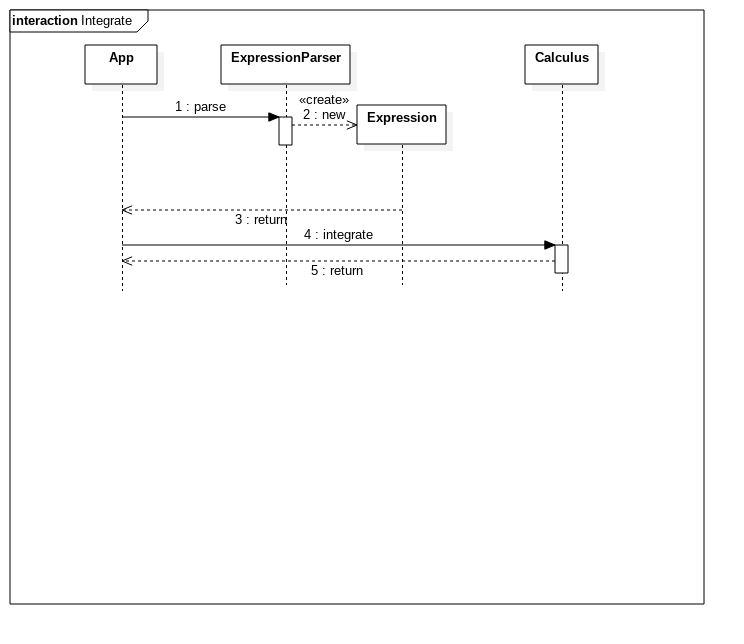
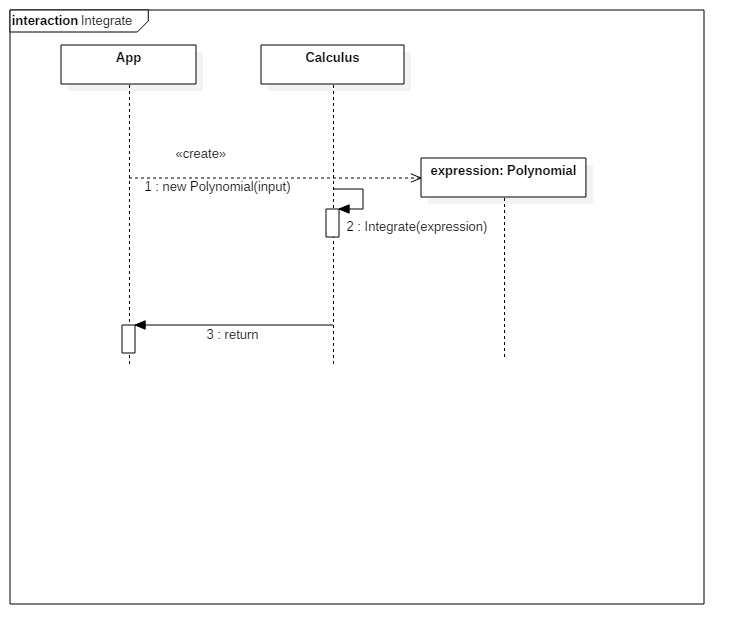
Updated most of the documents

diff --git a/docs/csc380project.tex b/docs/csc380project.tex
@@ -20,33 +20,24 @@
 
 \begin{document}
 
-\title{\textbf{Expression Calculator and Equation Solver} \\
+\title{\textbf{Expression Calculator} \\
     \url{https://github.com/stepheniskander/csc380project}}
 \author{Nicholas Esposito \\ nesposi3@oswego.edu \and Stephen Iskander \\ siskande@oswego.edu}
 
 \maketitle
 
 \section{Project Description}
-Our project is an expression calculator and equation solver.
+Our project is an expression calculator.
 The user can input mathematical expressions (e.g. \code{4*2+1}) to be evaluated to a numerical answer.
 Expressions can also contain matrices or calculus operations such as integrals and derivatives.
-If an expression contains one or more variables it will be simplified in terms of the variables (e.g. \code{(1*2)*x+(4-7) -> 2x-3}).
-If the user inputs an equation containing a single variable, the program will solve for that variable.
-The user can also input a system of equations that the program will solve if possible.
+
 
 \par The program uses JavaFX for its user interface.
 The main window is a simple command-prompt-like interface that the user types expressions or equations into.
 Expressions are typed into a text field at the bottom of the window, and the expression as well as its evaluated answer are displayed in a text area above the input field.
 The user can see their history in the output area so they can easily copy and paste previous expressions.
-An additional window allows the user to graphically build matrices that will be inserted into the input field.
-Systems of equations are handled on a separate tab to simplify inputting multiple equations.
 
-\subsection{Stretch Goals}
-The user can also use the program to graph functions.
-Graphs are located on a separate tab.
-The user inputs functions into an expandable list of functions and can choose what functions are visible on the graph.
-A graph of all the visible functions is displayed next to the list of functions.
-The window size and scale of the graph can be set manually or the program can attempt to set appropriate values.
+
 
 \newpage
 
@@ -59,16 +50,11 @@ The window size and scale of the graph can be set manually or the program can at
 REQ1  & 10 & Parsing user input into an expression. \\ \hline
 REQ2  & 10 & Provide an interface for user to input expressions and see result.\\ \hline
 REQ3  & 10 & Evaluate expression parse tree into numerical answer. \\ \hline
-REQ4  & 9  & Evaluate an expression containing variables in terms of variables. \\ \hline
-REQ5  & 8  & Solve an equation with a single variable. \\ \hline
-REQ6  & 8  & Evaluate calculus operations numerically. \\ \hline
-REQ7  & 7  & Evaluate calculus operations symbolically. \\ \hline 
-REQ8  & 7  & Parse a matrix entered in text format ([[x y z] [a b c]]) \\ \hline
-REQ9  & 7  & Perform matrix multiplication symbolically (i.e. each element is an expression). \\ \hline
-REQ10 & 6  & Perform LU factorization on a matrix in order to solve a system of equations. \\ \hline
-REQ11 & 5  & Provide a UI to simplify input of a system of equations. \\ \hline
-REQ12 & 4  & Provide a graphical interface for building matrices. \\ \hline
-REQ13 & 3  & Graph functions. \\ \hline
+REQ4  & 8  & Evaluate calculus operations numerically. \\ \hline
+REQ5  & 7  & Evaluate calculus operations symbolically. \\ \hline 
+REQ6  & 7  & Parse a matrix entered in text format ([[x y z] [a b c]]) \\ \hline
+REQ7 & 7 & Calculate matrix multiplication of two matrices \\ \hline
+
 \end{tabular}
 \end{center}
 
@@ -81,15 +67,9 @@ REQ13 & 3  & Graph functions. \\ \hline
 \hline
 \multicolumn{1}{|c|}{\textbf{Identifier}} & \multicolumn{1}{c|}{\textbf{Size}} & \multicolumn{1}{c|}{\textbf{Description}} \\ \hline
 ST-1 & 3 pts & As a user, I can evaluate an expression by typing in the input field. \\ \hline
-ST-2 & 6 pts & As a user, I can get a solution for an equation with a single variable. \\ \hline
-ST-3 & 4 pts & As a user, I can evaluate an expression containing calculus operations numerically. \\ \hline
-ST-4 & 4 pts & As a user, I can input a matrix in a text format. \\ \hline
-ST-5 & 5 pts & As a user, I can perform matrix multiplication. \\ \hline
-ST-6 & 6 pts & As a user, I can perform matrix multiplication in terms of variable matrix elements. \\ \hline
-ST-7 & 4 pts & As a user, I can use a graphical interface to simplify creating a matrix. \\ \hline
-ST-8 & 7 pts & As a user, I can solve a system of equations. \\ \hline
-ST-9 & 4 pts & As a user, I can use a graphical UI to simplify entering a system of equations. \\ \hline
-ST-10 & 9 pts & As a user, I can graph a function. \\ \hline
+ST-2 & 4 pts & As a user, I can evaluate an expression containing calculus operations numerically. \\ \hline
+ST-3 & 4 pts & As a user, I can input a matrix in a text format. \\ \hline
+ST-4 & 5 pts & As a user, I can perform matrix multiplication. \\ \hline
 \end{tabular}    
 \end{center}
 
@@ -130,53 +110,13 @@ $\leftarrow$  & 1.           & Expression throws ArithmeticException
 \end{center}
 
 
-\newpage
-\begin{center}
-\begin{tabular}{p{1.5in}p{5in}}
-\hline
-\textbf{Use Case UC-2}     & \textbf{SolveEquation} \\ \hline
-Related Requirements: & REQ4, REQ5, REQ3 \\
-Initiating Actor:     & User \\
-Participating Actors: & GUI, ExpressionParser, Expression, Equation \\
-Actor's Goal:          & To solve an equation of a single variable. \\
-Preconditions:         & \begin{itemize}[nosep]
-                         \item GUI is visible
-                         \item ExpressionParser is initialized
-                         \end{itemize} \\
-Postconditions:        & \begin{itemize}[nosep]
-                         \item Program is ready to solve another equation.
-                         \end{itemize} \\ \hline
-\end{tabular}
-
-\begin{tabular}{p{.25in}p{.25in}p{5.8in}}
-\multicolumn{3}{l}{Flow of Events for Main Success Scenario:} \\
-$\rightarrow$ & 1. & The User types an equation into the input field and presses enter. \\
-              & 2. & \code{include::ParseExpression} \\ 
-$\leftarrow$  & 3. & Each expression is simplified \\
-$\leftarrow$  & 4. &Equation solve method is applied, and is evaluated to a number.  \\
-$\leftarrow$  & 5. & GUI displays answer to User \\
-\end{tabular}
-
-\begin{tabular}{p{.25in}p{.25in}p{5.8in}}
-\multicolumn{3}{l}{Flow of Events for Extensions:} \\
-\multicolumn{2}{c}{\textbf{3a.}} & User entered an equation that cannot be solved \\
-$\leftarrow$  & 1.           & Equation throws ArithmeticException \\
-
-\multicolumn{2}{c}{\textbf{3b.}} & User entered an equation with more than one variable \\
-$\leftarrow$  & 1.           & Equation solve method prints a warning string, aborts \\
-
-
-
-
-\end{tabular}
-\end{center}
 
 \newpage
 
 \begin{center}
 \begin{tabular}{p{1.5in}p{5in}}
 \hline
-\textbf{Use Case UC-3}     & \textbf{ParseExpression} \\ \hline
+\textbf{Use Case UC-2}     & \textbf{ParseExpression} \\ \hline
 Related Requirements: & REQ1 \\
 Initiating Actor:     & GUI \\
 Participating Actors: & ExpressionParser, Expression \\
@@ -207,52 +147,19 @@ $\leftarrow$  & 1.           & ExpressionParser throws NoSuchElementException\\
 \end{tabular}
 \end{center}
 
-\newpage
-\begin{center}
-\begin{tabular}{p{1.5in}p{5in}}
-\hline
-\textbf{Use Case UC-4}     & \textbf{ParseEquation} \\ \hline
-Related Requirements: & REQ5 \\
-Initiating Actor:     & GUI \\
-Participating Actors: & ExpressionParser, Expression,Equation \\
-Actor's Goal:          & To parse the incoming string into an equation. \\
-Preconditions:         & \begin{itemize}[nosep]
-		      \item  ExpressionParser is initialized
-                         \end{itemize} \\
-Postconditions:        & \begin{itemize}[nosep]
-                         \item An Equation object is created and ready to be evaluated.
-                         \end{itemize} \\ \hline
-\end{tabular}
-
-\begin{tabular}{p{.25in}p{.25in}p{5.8in}}
-\multicolumn{3}{l}{Flow of Events for Main Success Scenario:} \\
-$\leftarrow$  & 1. & Both sides of the equation are evaluated into Expression objects\\
-$\leftarrow$  & 2. & An Equation object is created using the two Expressions\\
-\end{tabular}
-
-\begin{tabular}{p{.25in}p{.25in}p{5.8in}}
-\multicolumn{3}{l}{Flow of Events for Extensions:} \\
-\multicolumn{2}{c}{\textbf{2a.}} & User entered an equation with invalid characters \\
-$\leftarrow$  & 1.           & ExpressionParser throws NoSuchElementException\\
-
-
-\end{tabular}
-\end{center}
-
-
 
 
 \newpage
 \begin{center}
 \begin{tabular}{p{1.5in}p{5in}}
 \hline
-\textbf{Use Case UC-5}     & \textbf{Integrate} \\ \hline
-Related Requirements: & REQ6, REQ7 \\
+\textbf{Use Case UC-3}     & \textbf{Integrate} \\ \hline
+Related Requirements: & REQ4, REQ5 \\
 Initiating Actor:     & User \\
-Participating Actors: & GUI, FunctionParser, Function \\
+Participating Actors: & GUI, Polynomial \\
 Actor's Goal:          & To integrate an expression symbolically or definitively. \\
 Preconditions:         & \begin{itemize}[nosep]
-		      \item  FunctionParser is initialized
+		      \item  Polynomial is initialized
                          \end{itemize} \\
 Postconditions:        & \begin{itemize}[nosep]
                          \item An indefinite integral is calculated, or a definite integral if given range parameters.
@@ -262,7 +169,7 @@ Postconditions:        & \begin{itemize}[nosep]
 \begin{tabular}{p{.25in}p{.25in}p{5.8in}}
 \multicolumn{3}{l}{Flow of Events for Main Success Scenario:} \\
 $\rightarrow$ & 1. & User inputs a fucntion to integrate.\\
-$\leftarrow$  & 2. & A Function object is parsed from User input.\\
+$\leftarrow$  & 2. & A Polynomial object is parsed from User input.\\
 $\leftarrow$  & 3. & An indefinite integral is calculated from the function.\\
 $\leftarrow$  & 4. & If given range parameters, the application displays a numerical answer. Otherwise, it returns an indefinite integral function. 
 \end{tabular}
@@ -270,7 +177,7 @@ $\leftarrow$  & 4. & If given range parameters, the application displays a numer
 \begin{tabular}{p{.25in}p{.25in}p{5.8in}}
 \multicolumn{3}{l}{Flow of Events for Extensions:} \\
 \multicolumn{2}{c}{\textbf{2a.}} & User entered an invalid function \\
-$\leftarrow$  & 1.           & FunctionParser throws FunctionParseException.\\
+$\leftarrow$  & 1.           & Polynomial throws Exception.\\
 \end{tabular}
 \end{center}
 
@@ -281,13 +188,13 @@ $\leftarrow$  & 1.           & FunctionParser throws FunctionParseException.\\
 \begin{center}
 \begin{tabular}{p{1.5in}p{5in}}
 \hline
-\textbf{Use Case UC-6}     & \textbf{Derive} \\ \hline
-Related Requirements: & REQ6, REQ7 \\
+\textbf{Use Case UC-4}     & \textbf{Derive} \\ \hline
+Related Requirements: & REQ4, REQ5 \\
 Initiating Actor:     & User \\
-Participating Actors: & GUI, FunctionParser, Function \\
+Participating Actors: & GUI, Polynomial \\
 Actor's Goal:          & To derive the expression symbollically or at a point. \\
 Preconditions:         & \begin{itemize}[nosep]
-		      \item  FunctionParser is initialized
+		      \item  Polynomial is initialized
                          \end{itemize} \\
 Postconditions:        & \begin{itemize}[nosep]
                          \item A derivative function is calculated, and optionally evaluated at a single point.
@@ -297,7 +204,7 @@ Postconditions:        & \begin{itemize}[nosep]
 \begin{tabular}{p{.25in}p{.25in}p{5.8in}}
 \multicolumn{3}{l}{Flow of Events for Main Success Scenario:} \\
 $\rightarrow$ & 1. & The user inputs a function.\\
-$\leftarrow$   & 2. & A Function object is parsed from the input.\\
+$\leftarrow$   & 2. & A Polynomial object is parsed from the input.\\
 $\leftarrow$   & 3. & A derivative function in generated from the parsed function.\\
 $\leftarrow$   & 4. & Either the generated derivative function or the derivative at a certain point is displayed to the user.\\ 
 \end{tabular}
@@ -305,7 +212,7 @@ $\leftarrow$   & 4. & Either the generated derivative function or the derivative
 \begin{tabular}{p{.25in}p{.25in}p{5.8in}}
 \multicolumn{3}{l}{Flow of Events for Extensions:} \\
 \multicolumn{2}{c}{\textbf{2a.}} & User entered an invalid function \\
-$\leftarrow$  & 1.           & FunctionParser throws FunctionParseException.\\
+$\leftarrow$  & 1.           & Polynomial throws Exception.\\
 \end{tabular}
 \end{center}
 
@@ -313,8 +220,8 @@ $\leftarrow$  & 1.           & FunctionParser throws FunctionParseException.\\
 \begin{center}
 \begin{tabular}{p{1.5in}p{5in}}
 \hline
-\textbf{Use Case UC-7}     & \textbf{ParseMatrix} \\ \hline
-Related Requirements: & REQ8 \\
+\textbf{Use Case UC-5}     & \textbf{ParseMatrix} \\ \hline
+Related Requirements: & REQ6 \\
 Initiating Actor:     & GUI \\
 Participating Actors: &MatrixParser, Matrix \\
 Actor's Goal:          & To parse the incoming string into a Matrix. \\
@@ -346,8 +253,8 @@ $\leftarrow$  & 1.           & MatrixParser throws Exception\\
 \begin{center}
 \begin{tabular}{p{1.5in}p{5in}}
 \hline
-\textbf{Use Case UC-8}     & \textbf{MultiplyMatrix} \\ \hline
-Related Requirements: & REQ9 \\
+\textbf{Use Case UC-6}     & \textbf{MultiplyMatrix} \\ \hline
+Related Requirements: & REQ7 \\
 Initiating Actor:     & GUI \\
 Participating Actors: &MatrixParser, Matrix \\
 Actor's Goal:          & To multiply two matrices. \\
@@ -367,71 +274,7 @@ $\leftarrow$ & 3. & Display the resulting matrix\\
 \end{tabular}
 \end{center}
 
-\newpage
 
-\begin{center}
-\begin{tabular}{p{1.5in}p{5in}}
-\hline
-\textbf{Use Case UC-9}     & \textbf{SolveSystem} \\ \hline
-Related Requirements: & REQ10, REQ11 \\
-Initiating Actor:     & User \\
-Participating Actors: &MatrixParser, Matrix, EquationParser, Equation, ExpressionParser, Expression \\
-Actor's Goal:          & To solve a system of equations \\
-Preconditions:         & \begin{itemize}[nosep]
-                \item  MatrixParser is initialized
-                            \end{itemize} \\
-Postconditions:        & \begin{itemize}[nosep]
-                            \item A solution is found for a system of equations.
-                            \end{itemize} \\ \hline
-\end{tabular}
-
-\begin{tabular}{p{.25in}p{.25in}p{5.8in}}
-\multicolumn{3}{l}{Flow of Events for Main Success Scenario:} \\
-              & 1. & \code{include::ParseEquation}\\
-$\leftarrow$  & 2. & A matrix is generated from the parsed equations\\
-$\leftarrow$  & 3. & LU factorization is performed on the matrix\\
-$\leftarrow$  & 4. & The solution to the system is displayed by the GUI
-\end{tabular}
-
-\begin{tabular}{p{.25in}p{.25in}p{5.8in}}
-\multicolumn{3}{l}{Flow of Events for Extensions:} \\
-\multicolumn{2}{c}{\textbf{1a.}} & System of equations is not solvable \\
-$\leftarrow$  & 1.           & Matrix throws LUFactorException\\
-
-
-\end{tabular}
-\end{center}
-
-\newpage
-\begin{center}
-\begin{tabular}{p{1.5in}p{5in}}
-\hline
-\textbf{Use Case UC-10}     & \textbf{GraphFunction} \\ \hline
-Related Requirements: & REQ13 \\
-Initiating Actor:     & User \\
-Participating Actors: & GUI, FunctionParser, Function \\
-Actor's Goal:          & To graph a functions \\
-Preconditions:         & \begin{itemize}[nosep]
-                \item  FunctionParser is initialized
-                            \end{itemize} \\
-Postconditions:        & \begin{itemize}[nosep]
-                            \item A graph of the function is displayed
-                            \end{itemize} \\ \hline
-\end{tabular}
-
-\begin{tabular}{p{.25in}p{.25in}p{5.8in}}
-\multicolumn{3}{l}{Flow of Events for Main Success Scenario:} \\
-$\rightarrow$ & 1. & The user inputs a function.\\
-$\leftarrow$   & 2. & A Function object is parsed from the input.\\
-$\leftarrow$   & 3. & A graph of the function is drawn on a Canvas object\\ 
-\end{tabular}
-
-\begin{tabular}{p{.25in}p{.25in}p{5.8in}}
-\multicolumn{3}{l}{Flow of Events for Extensions:} \\
-\multicolumn{2}{c}{\textbf{2a.}} & User entered an invalid function \\
-$\leftarrow$  & 1.           & FunctionParser throws FunctionParseException.\\
-\end{tabular}
-\end{center}
 
 \newpage
 
@@ -442,32 +285,25 @@ $\leftarrow$  & 1.           & FunctionParser throws FunctionParseException.\\
 \begin{center}
 \begin{tabular}{|l|l|l|l|l|l|l|l|l|l|l|}
 \hline
-      & UC-1 & UC-2 & UC-3 & UC-4 & UC-5 & UC-6 & UC-7 & UC-8 & UC-9 & UC-10 \\ \hline
-REQ1  & X    &      & X    &      &      &      &      &      &      &       \\ \hline
-REQ2  & X    &      &      &      &      &      &      &      &      &       \\ \hline
-REQ3  & X    &      &      &      &      &      &      &      &      &       \\ \hline
-REQ4  &      & X    &      &      &      &      &      &      &      &       \\ \hline
-REQ5  &      & X    &      &  X   &      &      &      &      &      &       \\ \hline
-REQ6  &      &      &      &      &  X   & X    &      &      &      &       \\ \hline
-REQ7  &      &      &      &      &  X   & X    &      &      &      &       \\ \hline
-REQ8  &      &      &      &      &      &      & X    &      &      &       \\ \hline
-REQ9  &      &      &      &      &      &      &      & X    &      &       \\ \hline
-REQ10 &      &      &      &      &      &      &      &      & X    &       \\ \hline
-REQ11 &      &      &      &      &      &      &      &      & X    &       \\ \hline
-REQ12 &      &      &      &      &      &      & X    &      &      &       \\ \hline
-REQ13 &      &      &      &      &      &      &      &      &      & X     \\ \hline
+      & UC-1 & UC-2 & UC-3 & UC-4 & UC-5 & UC-6  \\ \hline
+REQ1  & X    &   X   &    &      &      &            \\ \hline
+REQ2  & X    &      &      &      &      &            \\ \hline
+REQ3  & X    &      &      &      &      &            \\ \hline
+REQ4  &      &     &    X  &  X    &      &             \\ \hline
+REQ5  &      &     &   X   &  X   &      &             \\ \hline
+REQ6  &      &      &      &      &  X   &          \\ \hline
+REQ7  &      &      &      &      &     &  X        \\ \hline
+
 \end{tabular}
 \end{center}
 
 \includepdf[pagecommand={}]{UMLClassDiagram.pdf}
 \includepdf[pagecommand={}]{sequencediagrams/sd1.png}
-\includepdf[pagecommand={}]{sequencediagrams/sd2.png}
 \includepdf[pagecommand={}]{sequencediagrams/sd3.png}
 \includepdf[pagecommand={}]{sequencediagrams/sd4.png}
 \includepdf[pagecommand={}]{sequencediagrams/sd5.png}
 \includepdf[pagecommand={}]{sequencediagrams/sd6.png}
-\includepdf[pagecommand={}]{sequencediagrams/sd7.png}
 \includepdf[pagecommand={}]{sequencediagrams/sd8.png}
-\includepdf[pagecommand={}]{sequencediagrams/sd9.png}
+
 
 \end{document}
